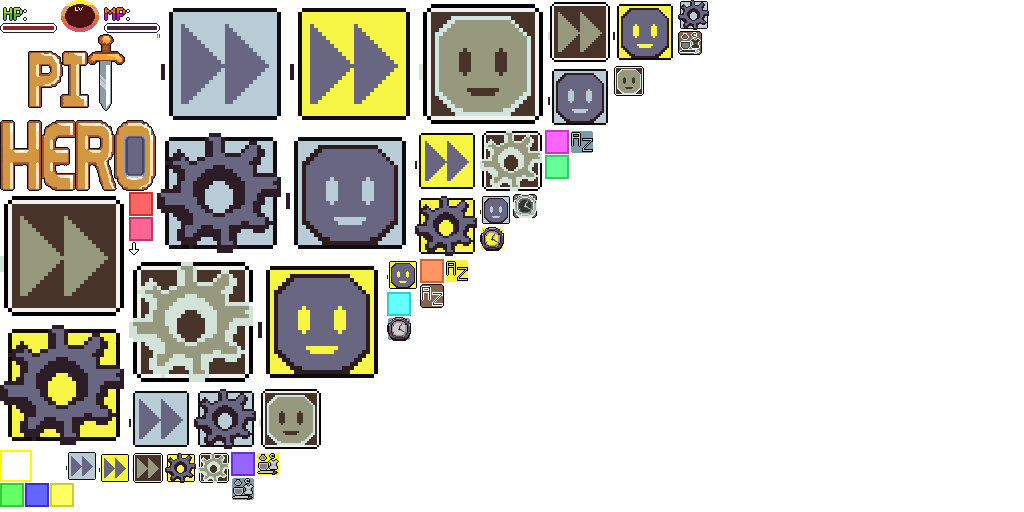
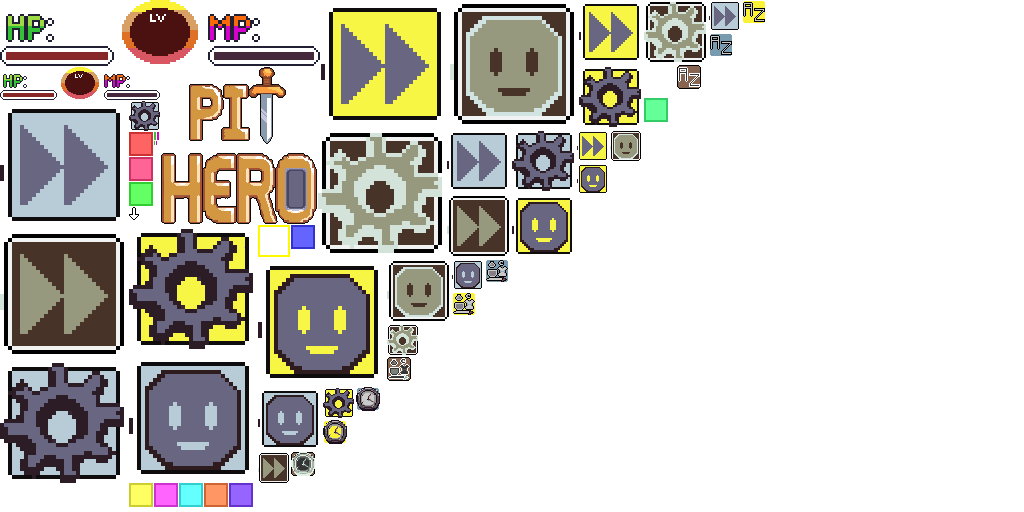
Better HUD display at half size

diff --git a/PitHero/UI/GraphicalHUD.cs b/PitHero/UI/GraphicalHUD.cs
@@ -13,9 +13,22 @@ namespace PitHero.UI
     public class GraphicalHUD : RenderableComponent
     {
         private Sprite _hudTemplateSprite;
+        private Sprite _hudTemplateSprite2x;
         private Sprite _hpUnitSprite;
+        private Sprite _hpUnitSprite2x;
         private Sprite _mpUnitSprite;
+        private Sprite _mpUnitSprite2x;
         private BitmapFont _hudFont;
+        private BitmapFont _hudFont2x;
+        
+        private bool _useDoubleSize;
+        
+        // Active sprites and fonts (switch between normal and 2x)
+        private Sprite ActiveHudTemplate => _useDoubleSize ? _hudTemplateSprite2x : _hudTemplateSprite;
+        private Sprite ActiveHpUnit => _useDoubleSize ? _hpUnitSprite2x : _hpUnitSprite;
+        private Sprite ActiveMpUnit => _useDoubleSize ? _mpUnitSprite2x : _mpUnitSprite;
+        private BitmapFont ActiveFont => _useDoubleSize ? _hudFont2x : _hudFont;
+        private int SizeMultiplier => _useDoubleSize ? 2 : 1;
 
         // Constants from issue description
         private const int HP_BAR_WIDTH = 51;
@@ -41,12 +54,12 @@ namespace PitHero.UI
         /// <summary>
         /// Override Width to return the HUD template sprite width (fixes StackOverflowException)
         /// </summary>
-        public override float Width => _hudTemplateSprite?.SourceRect.Width ?? 160;
+        public override float Width => ActiveHudTemplate?.SourceRect.Width ?? 160;
 
         /// <summary>
         /// Override Height to return the HUD template sprite height (fixes StackOverflowException)
         /// </summary>
-        public override float Height => _hudTemplateSprite?.SourceRect.Height ?? 33;
+        public override float Height => ActiveHudTemplate?.SourceRect.Height ?? 33;
 
         public GraphicalHUD()
         {
@@ -58,14 +71,18 @@ namespace PitHero.UI
         {
             base.OnAddedToEntity();
 
-            // Load sprites from UI atlas
+            // Load sprites from UI atlas (both normal and 2x versions)
             var uiAtlas = Core.Content.LoadSpriteAtlas("Content/Atlases/UI.atlas");
             _hudTemplateSprite = uiAtlas.GetSprite("HudTemplate");
+            _hudTemplateSprite2x = uiAtlas.GetSprite("HudTemplate2x");
             _hpUnitSprite = uiAtlas.GetSprite("HPUnit");
+            _hpUnitSprite2x = uiAtlas.GetSprite("HPUnit2x");
             _mpUnitSprite = uiAtlas.GetSprite("MPUnit");
+            _mpUnitSprite2x = uiAtlas.GetSprite("MPUnit2x");
 
-            // Load HUD font (16 point font)
+            // Load HUD fonts (normal and 2x)
             _hudFont = Core.Content.LoadBitmapFont("Content/Fonts/HUD.fnt");
+            _hudFont2x = Core.Content.LoadBitmapFont("Content/Fonts/Hud2x.fnt");
         }
 
         /// <summary>
@@ -80,25 +97,46 @@ namespace PitHero.UI
             _level = level;
         }
 
+        /// <summary>
+        /// Set whether to use double-size (2x) sprites or normal sprites
+        /// </summary>
+        public void SetUseDoubleSize(bool useDoubleSize)
+        {
+            _useDoubleSize = useDoubleSize;
+        }
+
         public override void Render(Batcher batcher, Camera camera)
         {
             // Get entity position in screen space (this should be top-left of HUD)
             var position = Entity.Transform.Position;
 
             // Render HUD template background with origin at top-left (0,0) instead of center
-            batcher.Draw(_hudTemplateSprite, position, Color.White, 0f, Vector2.Zero, 1f, Microsoft.Xna.Framework.Graphics.SpriteEffects.None, 0f);
+            batcher.Draw(ActiveHudTemplate, position, Color.White, 0f, Vector2.Zero, 1f, Microsoft.Xna.Framework.Graphics.SpriteEffects.None, 0f);
+
+            // Scale offsets based on size multiplier
+            int scaledHpUnitXOffset = HP_UNIT_X_OFFSET * SizeMultiplier;
+            int scaledHpUnitYOffset = HP_UNIT_Y_OFFSET * SizeMultiplier;
+            int scaledMpUnitXOffset = MP_UNIT_X_OFFSET * SizeMultiplier;
+            int scaledMpUnitYOffset = MP_UNIT_Y_OFFSET * SizeMultiplier;
+            int scaledHpTextXOffset = HP_TEXT_X_OFFSET * SizeMultiplier;
+            int scaledHpTextYOffset = HP_TEXT_Y_OFFSET * SizeMultiplier;
+            int scaledMpTextXOffset = MP_TEXT_X_OFFSET * SizeMultiplier;
+            int scaledMpTextYOffset = MP_TEXT_Y_OFFSET * SizeMultiplier;
+            int scaledLevelTextXOffset = LEVEL_TEXT_X_OFFSET * SizeMultiplier;
+            int scaledLevelTextYOffset = LEVEL_TEXT_Y_OFFSET * SizeMultiplier;
+            int scaledBarWidth = HP_BAR_WIDTH * SizeMultiplier;
 
             // Now all child elements use position directly as the top-left corner
             // Render HP bar (filled from right to left based on HP percentage)
-            RenderBar(batcher, position, _hpUnitSprite, _currentHp, _maxHp, HP_UNIT_X_OFFSET, HP_UNIT_Y_OFFSET, HP_BAR_WIDTH);
+            RenderBar(batcher, position, ActiveHpUnit, _currentHp, _maxHp, scaledHpUnitXOffset, scaledHpUnitYOffset, scaledBarWidth);
 
             // Render MP bar (filled from right to left based on MP percentage)
-            RenderBar(batcher, position, _mpUnitSprite, _currentMp, _maxMp, MP_UNIT_X_OFFSET, MP_UNIT_Y_OFFSET, MP_BAR_WIDTH);
+            RenderBar(batcher, position, ActiveMpUnit, _currentMp, _maxMp, scaledMpUnitXOffset, scaledMpUnitYOffset, scaledBarWidth);
 
             // Render dynamic numbers
-            RenderText(batcher, position, _currentHp.ToString(), HP_TEXT_X_OFFSET, HP_TEXT_Y_OFFSET);
-            RenderText(batcher, position, _currentMp.ToString(), MP_TEXT_X_OFFSET, MP_TEXT_Y_OFFSET);
-            RenderText(batcher, position, _level.ToString(), LEVEL_TEXT_X_OFFSET, LEVEL_TEXT_Y_OFFSET);
+            RenderText(batcher, position, _currentHp.ToString(), scaledHpTextXOffset, scaledHpTextYOffset);
+            RenderText(batcher, position, _currentMp.ToString(), scaledMpTextXOffset, scaledMpTextYOffset);
+            RenderText(batcher, position, _level.ToString(), scaledLevelTextXOffset, scaledLevelTextYOffset);
         }
 
         /// <summary>
@@ -131,15 +169,15 @@ namespace PitHero.UI
         /// </summary>
         private void RenderText(Batcher batcher, Vector2 hudPosition, string text, int xOffset, int yOffset)
         {
-            // Add 8 pixels of padding for single-digit levels to center them in the level circle
+            // Add padding for single-digit levels to center them in the level circle (scaled based on size)
             int adjustedXOffset = xOffset;
-            if (xOffset == LEVEL_TEXT_X_OFFSET && text.Length == 1)
+            if (xOffset == LEVEL_TEXT_X_OFFSET * SizeMultiplier && text.Length == 1)
             {
-                adjustedXOffset += 4;
+                adjustedXOffset += 4 * SizeMultiplier;
             }
 
             var textPosition = hudPosition + new Vector2(adjustedXOffset, yOffset);
-            batcher.DrawString(_hudFont, text, textPosition, Color.White);
+            batcher.DrawString(ActiveFont, text, textPosition, Color.White);
         }
     }
 }

diff --git a/PitHero/ECS/Scenes/MainGameScene.cs b/PitHero/ECS/Scenes/MainGameScene.cs
@@ -39,6 +39,7 @@ namespace PitHero.ECS.Scenes
         private const float PitLabelBaseY = 16f; // original Y before offsets applied
         private const float GraphicalHudBaseX = 110f; // Base X position for graphical HUD (to the right of Pit Lv label)
         private const float GraphicalHudBaseY = 4f; // Base Y position for graphical HUD
+        private const float GraphicalHudHalfModeXOffset = 110f; // Additional X offset when in half mode to avoid covering pit label
 
         public BitmapFont HudFont; // legacy reference (normal)
 
@@ -363,7 +364,7 @@ namespace PitHero.ECS.Scenes
 
         private void SetupUIOverlay()
         {
-            var screenSpaceRenderer = new ScreenSpaceRenderer(100, [GameConfig.TransparentPauseOverlay, GameConfig.RenderLayerUI]);
+            var screenSpaceRenderer = new ScreenSpaceRenderer(100, [GameConfig.TransparentPauseOverlay, GameConfig.RenderLayerUI, GameConfig.RenderLayerGraphicalHUD]);
             AddRenderer(screenSpaceRenderer);
 
             // Create pause overlay entity
@@ -403,6 +404,7 @@ namespace PitHero.ECS.Scenes
             var hudEntity = CreateEntity("graphical-hud");
             hudEntity.SetPosition(GraphicalHudBaseX, GraphicalHudBaseY);
             _graphicalHUD = hudEntity.AddComponent(new GraphicalHUD());
+            _graphicalHUD.SetRenderLayer(GameConfig.RenderLayerGraphicalHUD); // Use screen space renderer
 
             // Shortcut bar at bottom center
             _shortcutBar = new ShortcutBar();
@@ -516,9 +518,11 @@ namespace PitHero.ECS.Scenes
                 {
                     case HudMode.Normal:
                         _pitLevelLabel.SetStyle(_pitLevelStyleNormal);
+                        _graphicalHUD?.SetUseDoubleSize(false);
                         break;
                     case HudMode.Half:
                         _pitLevelLabel.SetStyle(_pitLevelStyleHalf);
+                        _graphicalHUD?.SetUseDoubleSize(true);
                         break;
                 }
                 _currentHudMode = desired;
@@ -550,14 +554,22 @@ namespace PitHero.ECS.Scenes
                 _pitLevelLabel.SetY(targetY);
             }
 
-            // Update graphical HUD position based on mode
+            // Update graphical HUD position based on mode (no scaling needed - it's in screen space)
             if (_graphicalHUD != null)
             {
                 var hudEntity = _graphicalHUD.Entity;
                 if (hudEntity != null)
                 {
                     float hudTargetY = GraphicalHudBaseY + yOffset;
-                    hudEntity.SetPosition(GraphicalHudBaseX, hudTargetY);
+                    float hudTargetX = GraphicalHudBaseX;
+
+                    if (_currentHudMode == HudMode.Half)
+                    {
+                        // Shift right to avoid covering the pit label (no scale needed in screen space)
+                        hudTargetX += GraphicalHudHalfModeXOffset;
+                    }
+
+                    hudEntity.SetPosition(hudTargetX, hudTargetY);
                 }
             }
         }

diff --git a/PitHero/GameConfig.cs b/PitHero/GameConfig.cs
@@ -119,6 +119,7 @@ namespace PitHero
         public const int RenderLayerBase = 100; // Background layer
 
         public const int RenderLayerUI = 998; // UI layer (always on top)
+        public const int RenderLayerGraphicalHUD = 997; // Graphical HUD layer (screen space, not affected by scene scaling)
         public const int TransparentPauseOverlay = 999; // Transparent overlay for paused action when UI is active
 
         // UI Button Spacing
